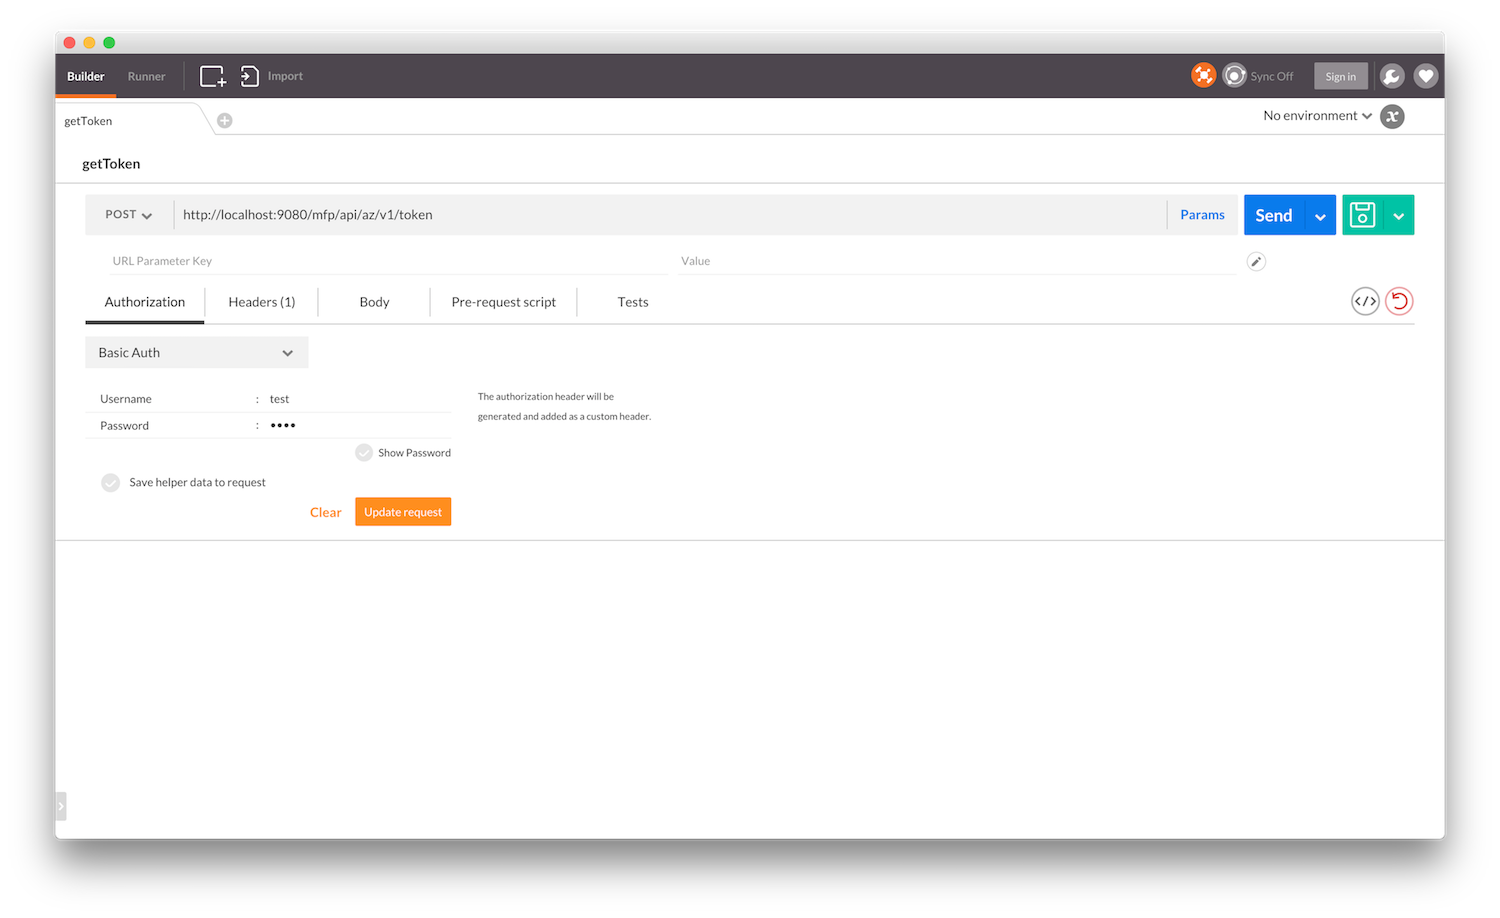
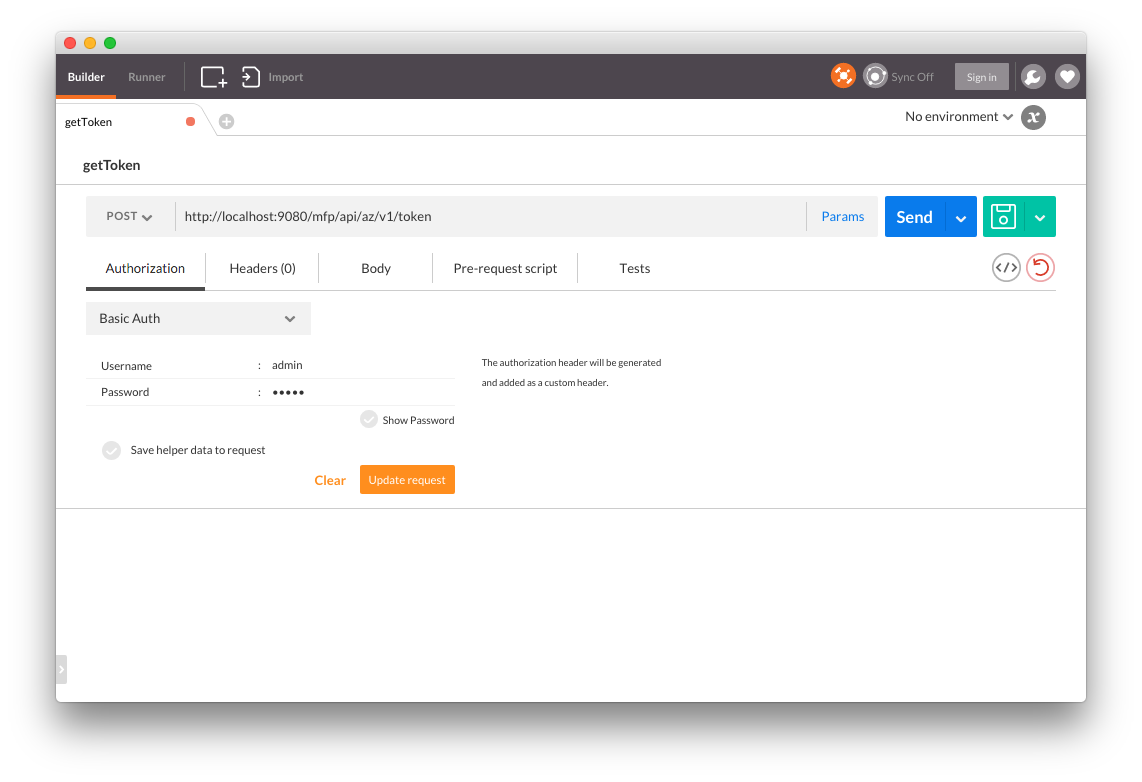
Fixed an image in the testing tutorial

diff --git a/tutorials/en/foundation/8.0/adapters/testing-and-debugging-adapters/index.md b/tutorials/en/foundation/8.0/adapters/testing-and-debugging-adapters/index.md
@@ -46,13 +46,13 @@ To disable security in JavaScript adapters you should add the `secured` attribut
 ```
 
 Alternatively, the development version of the MobileFirst Server includes a test token endpoint to bypass the security challenges. To receive a Test Token you should:
-
-1. In the MobileFirst Operations Console → **Settings** → **Confidential Clients** tab, create a confidential client or use the default one:  
+{% comment %}
+1. In the MobileFirst Operations Console -> **Settings** -> **Confidential Clients** tab, create a confidential client or use the default one:  
 For testing purposes set **Allowed Scopes** as `**`.
 
   ![Image of setting a confidential client](confidential_client.png)
-
-2. Use your HTTP client (Postman) to make an HTTP `POST` request to `http://<IP>:<PORT>/mfp/api/az/v1/token` with the following parameters using `Content-Type: application/x-www-form-urlencoded`:
+{% endcomment %}
+1. Use your HTTP client (Postman) to make an HTTP `POST` request to `http://<IP>:<PORT>/mfp/api/az/v1/token` with the following parameters using `Content-Type: application/x-www-form-urlencoded`:
 
     ```xml
     grant_type : client_credentials
@@ -60,7 +60,8 @@ For testing purposes set **Allowed Scopes** as `**`.
     ```
 
   ![Image of Postman Body configuration](Body_configuration.png)
-3. Add an `authorization header` using `Basic authentication` with the confidential client's ID (test) and secret (test):  
+2. Add an `authorization header` using `Basic authentication` with the <span style="color:red">Add link to the confidential client tutorial</span>
+confidential client's ID (admin) and secret (admin):  
 
   ![Image of Postman Authorization configuration](Authorization_configuration.png)
 
@@ -82,7 +83,7 @@ Now with any future request to adapter endpoints, add an HTTP header with the na
 
 ### Using MobileFirst Developer CLI
 
-<span style="color:red"> TBD </span>
+
 
 ## Debugging Adapters
 Before an adapter's Java code can be debugged, Eclipse needs to be configured as follows:
